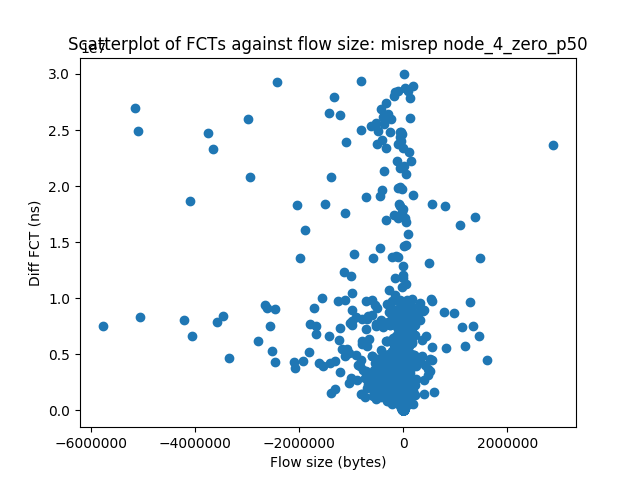
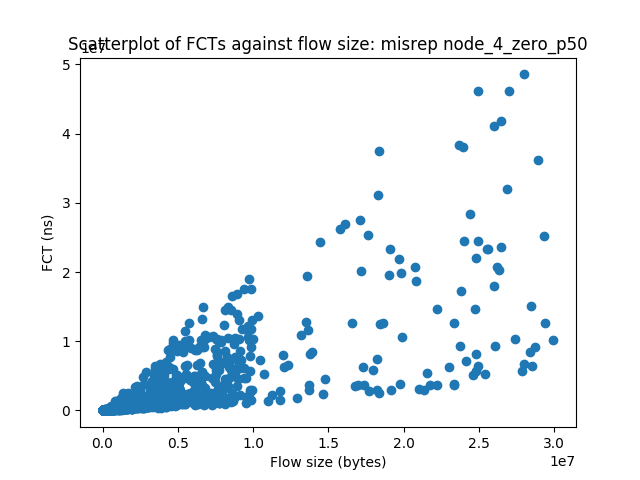
More FCT analysis (FCT against flow size

diff --git a/analysis/graph/fct_abs_hist.py b/analysis/graph/fct_abs_hist.py
@@ -4,18 +4,19 @@ from graph_helpers import (
     get_file_suffix,
     get_mix_trace_filename,
     get_out_png_filename,
-    plot_scatter,
+    plot_pos_neg_stacked_line_chart,
     process_fct_trace,
 )
 
-
 if __name__ == "__main__":
-    parser = argparse.ArgumentParser(description='graph window size')
+    parser = argparse.ArgumentParser(description='graph positive/negative diff FCTs ')
     parser.add_argument('--node', dest='node', action='store', type=int, default=0, help="node id")
     parser.add_argument('--flow', dest='flow', action='store', default='mini_flow', help="the name of the flow file")
     parser.add_argument('--topo', dest='topo', action='store', default='mini_topology', help="the name of the topology file")
     parser.add_argument('--cc_algo', dest='cc_algo', action='store', default='hp95ai50', help="CC algo with params")
     parser.add_argument('--misrep', dest='misrep', action='store', default='none', help="the name of misreporting profile file")
+    parser.add_argument('--should_norm', dest='should_norm', action='store_true', help="whether to normalize FCT against flow size")
+    parser.add_argument('--should_filter', dest='should_filter', action='store_true', help="whether to filter flows that only traverse given node")
     # parser.add_argument('--behavior', dest='behavior', action='store', required=True, help="the name of the misreporting profile file")
     # parser.add_argument('--step', dest='step', action='store', default=10, help="probability step size, in percentage points")
     args = parser.parse_args()
@@ -25,6 +26,7 @@ if __name__ == "__main__":
     cc_algo = args.cc_algo
     flow=args.flow
     misrep=args.misrep
+    should_norm=args.should_norm
     # behavior=args.behavior
     # step=args.step
     
@@ -45,38 +47,39 @@ if __name__ == "__main__":
 
     file_suffix = get_file_suffix(topo=topo, flow=flow, cc_algo=cc_algo, misrep=misrep)
     trace_file = get_mix_trace_filename(trace_name='fct', file_suffix=file_suffix)
-    # {flow_tuple : (start_time, fct, standalone_fct, size)}
+    # {flow_tuple : (start_time, fct, standalone_fct, sz)}
     fct_map = process_fct_trace(fct_trace_path=trace_file)
 
     base_file_suffix = get_file_suffix(topo=topo, flow=flow, cc_algo=cc_algo, misrep='none')
     base_trace_file = get_mix_trace_filename(trace_name='fct', file_suffix=base_file_suffix)
     base_fct_map = process_fct_trace(fct_trace_path=base_trace_file)
-    
-    assert set(base_fct_map.keys()) == set(fct_map.keys())
-    X,Y = [], []
-    for flow_key in base_fct_map:
-        _, base_fct, _, base_size = base_fct_map[flow_key]
-        _, exp_fct, _, exp_size = fct_map[flow_key]
-        assert base_size == exp_size
-        X.append(base_size)
-        Y.append(exp_fct)
 
+    # get nodes involved in these flows
+    # TODO
+
+    assert set(base_fct_map.keys()) == set(fct_map.keys())
+    diff_fct_map = {
+        flow_key: (flow_data[1] - base_fct_map[flow_key][1]) / flow_data[3]
+            if should_norm
+            else flow_data[1] - base_fct_map[flow_key][1]
+        for flow_key, flow_data in fct_map.items()
+    }
     #     fcts_ms.append(fct_ns / 1e6)
     
     out_png_name = get_out_png_filename(
-        graph_metric='fct_scatter',
+        graph_metric='fct_abs_hist_norm' if should_norm  else 'fct_abs_hist',
         file_suffix=get_file_suffix(topo=topo, flow=flow, cc_algo=cc_algo, misrep=''),
         node_num=node_num,
         out_label="{misrep}".format(misrep=misrep)
     )
-    graph_title = "Scatterplot of FCTs against flow size: misrep {misrep}".format(
-        misrep=misrep)
-    plot_scatter(
+    norm_str = ' (normalized by flow size)' if should_norm else ''
+    graph_title = "Abs (exp-baseline) diff FCT histogram{norm_str}: misrep {misrep}".format(
+        misrep=misrep, norm_str=norm_str)
+    plot_pos_neg_stacked_line_chart(
         # data=[e[1] for e in fct_map.values()],
-        X=X,
-        Y=Y,
-        xlabel='Flow size (bytes)',
-        ylabel='FCT (ns)',
+        data=diff_fct_map.values(),
+        xlabel='Abs diff FCT (ns/byte)',
+        ylabel='Number of flows',
         title=graph_title,
         out_file_name=out_png_name,
     )

diff --git a/analysis/graph/graph_helpers.py b/analysis/graph/graph_helpers.py
@@ -360,12 +360,6 @@ def plot_histogram(data, xlabel, ylabel, title, out_file_name):
     # Create the histogram
     data = np.array(data)
 
-    print(min(data), max(data))
-    mean = np.mean(data)
-    stddev = np.std(data)
-    print("Mean:", mean)
-    print("Standard deviation:", stddev)
-
     filtered_data = remove_outliers_iqr(data)
     plt.hist(filtered_data, bins=100)
 
@@ -374,6 +368,37 @@ def plot_histogram(data, xlabel, ylabel, title, out_file_name):
     plt.xlabel(xlabel)
     plt.ylabel(ylabel)
     print('saving graph to {}'.format(out_file_name))
+    plt.savefig(out_file_name)
+    plt.close()
+
+def plot_pos_neg_stacked_line_chart(data, xlabel, ylabel, title, out_file_name):
+    # type: (List[int], str, str, str, str) -> None
+    data = np.array(data)
+    filtered_data = remove_outliers_iqr(data)
+    abs_values = np.abs(filtered_data)
+    
+    # Separate positive and negative values
+    pos_values = filtered_data[filtered_data > 0]
+    neg_values = filtered_data[filtered_data < 0]
+    
+    # Create bins
+    bins = np.linspace(min(abs_values), max(abs_values), num=20)
+    pos_hist, _ = np.histogram(pos_values, bins=bins)
+    neg_hist, _ = np.histogram(-neg_values, bins=bins)
+
+    bin_centers = (bins[:-1] + bins[1:]) / 2
+    width = (bins[1] - bins[0]) * 0.4
+    
+    plt.figure(figsize=(10, 6))
+    plt.bar(bin_centers - width/2, pos_hist, width=width, label='Positive Values', color='blue', alpha=0.7)
+    plt.bar(bin_centers + width/2, neg_hist, width=width, label='Negative Values', color='red', alpha=0.7)
+    
+    plt.title(title)
+    plt.xlabel(xlabel)
+    plt.ylabel(ylabel)
+    plt.legend()
+    
+    print('saving graph to {out_file_name}'.format(out_file_name=out_file_name))
     plt.savefig(out_file_name)
     plt.close()
 

diff --git a/analysis/graph/fct_diff_scatter.py b/analysis/graph/fct_diff_scatter.py
@@ -59,24 +59,24 @@ if __name__ == "__main__":
         _, exp_fct, _, exp_size = fct_map[flow_key]
         assert base_size == exp_size
         X.append(base_size)
-        Y.append(exp_fct)
+        Y.append(exp_fct - base_fct)
 
     #     fcts_ms.append(fct_ns / 1e6)
     
     out_png_name = get_out_png_filename(
-        graph_metric='fct_scatter',
+        graph_metric='fct_diff_scatter',
         file_suffix=get_file_suffix(topo=topo, flow=flow, cc_algo=cc_algo, misrep=''),
         node_num=node_num,
         out_label="{misrep}".format(misrep=misrep)
     )
-    graph_title = "Scatterplot of FCTs against flow size: misrep {misrep}".format(
+    graph_title = "Scatterplot of diff FCTs against flow size: misrep {misrep}".format(
         misrep=misrep)
     plot_scatter(
         # data=[e[1] for e in fct_map.values()],
         X=X,
         Y=Y,
         xlabel='Flow size (bytes)',
-        ylabel='FCT (ns)',
+        ylabel='Diff FCT (ns)',
         title=graph_title,
         out_file_name=out_png_name,
     )
